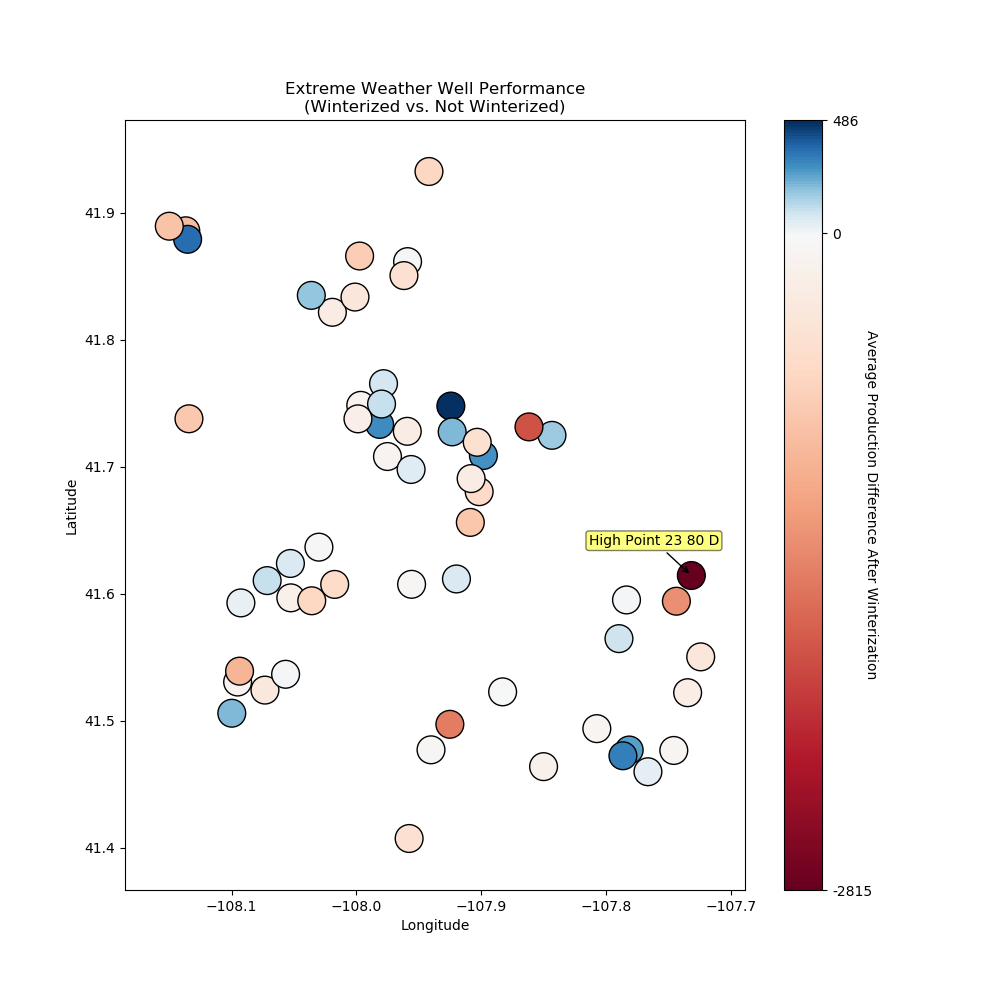
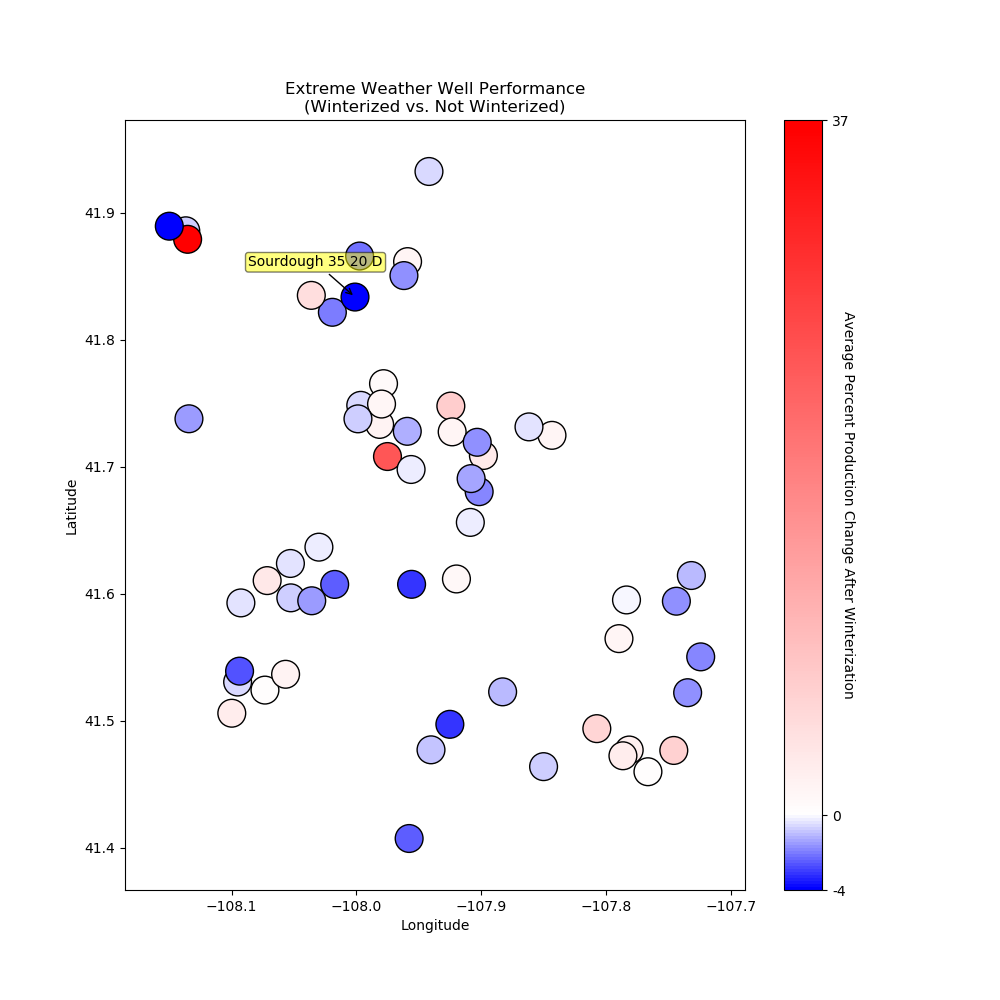
changing to percentages

diff --git a/winterize.py b/winterize.py
@@ -173,7 +173,7 @@ def loc_plot(df, date, worst=False):
 	wint_df = wint_df.groupby(['WellFlac', 'WellName', 'FacilityName', 'Latitude', 'Longitude'], as_index=False).mean()
 
 	plot_df = pd.merge(pre_df, wint_df, on=['WellFlac', 'WellName', 'FacilityName', 'Latitude', 'Longitude'])
-	plot_df.loc[:, 'Difference'] = plot_df['Gas'] - plot_df['PreGas']
+	plot_df.loc[:, 'Difference'] = (plot_df['Gas'] - plot_df['PreGas']) / plot_df['PreGas']
 
 	plot_facility = plot_df[['FacilityName', 'Latitude', 'Longitude', 'Difference']]
 	func = {'Latitude': ['mean'], 'Longitude': ['mean'], 'Difference': ['sum']}
@@ -268,7 +268,7 @@ def loc_plot(df, date, worst=False):
 									 plot_facility['Difference'].max()])
 	cbar.ax.set_yticklabels([str(int(plot_facility['Difference'].min())), '0', \
 							 str(int(plot_facility['Difference'].max()))])
-	cbar.set_label('Average Production Difference After Winterization', rotation=270)
+	cbar.set_label('Average Percent Production Change After Winterization', rotation=270)
 
 	plt.xlabel('Longitude')
 	plt.ylabel('Latitude')
